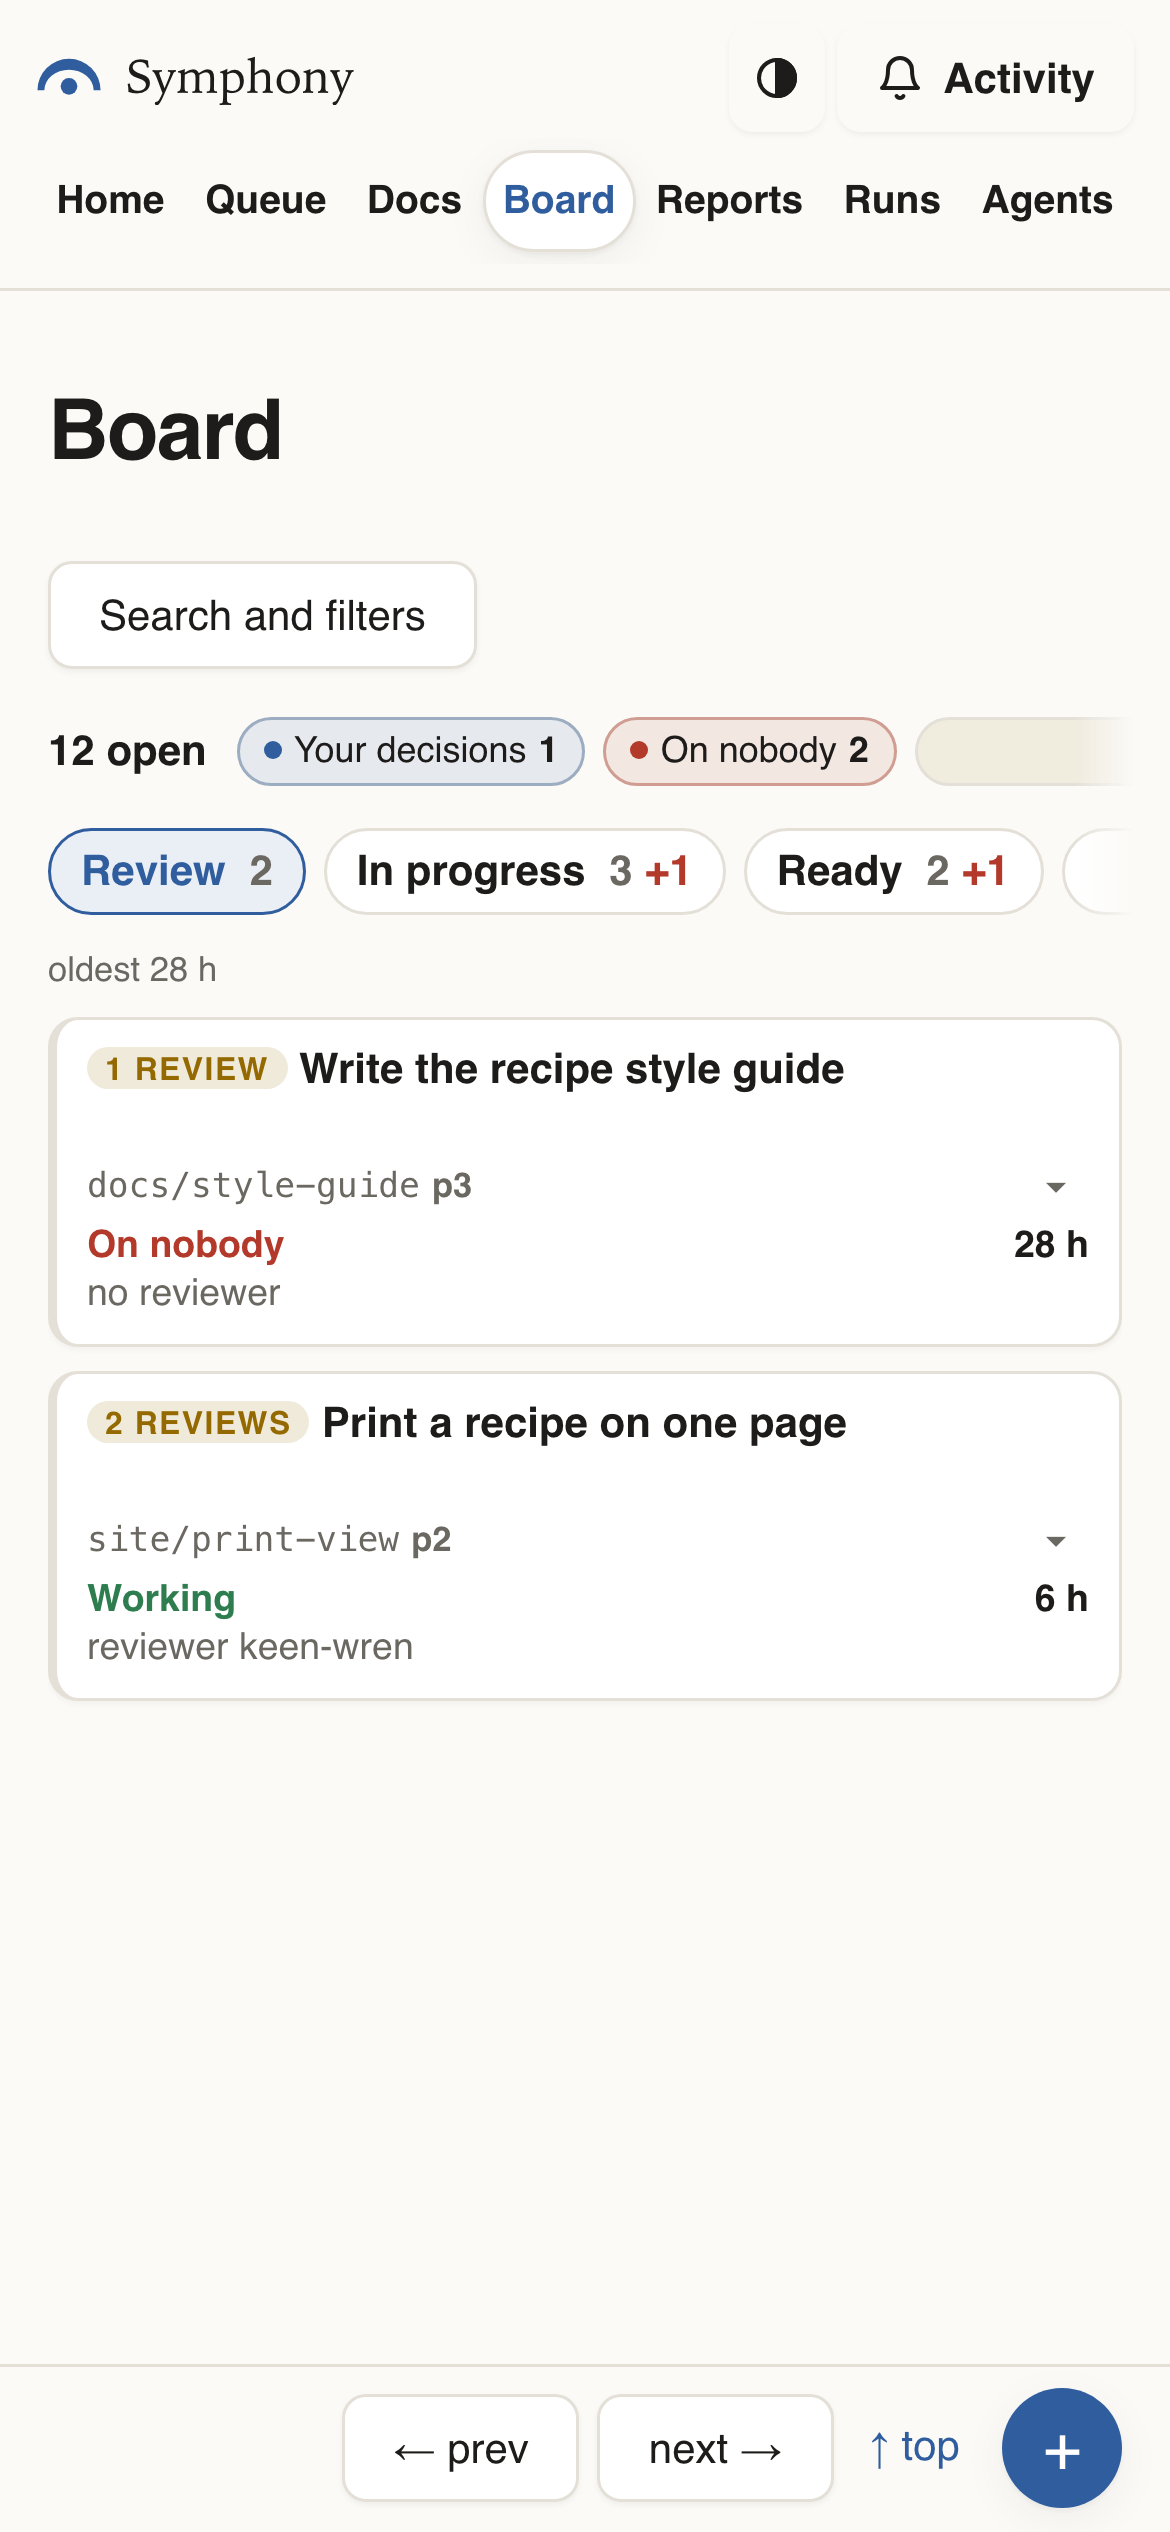
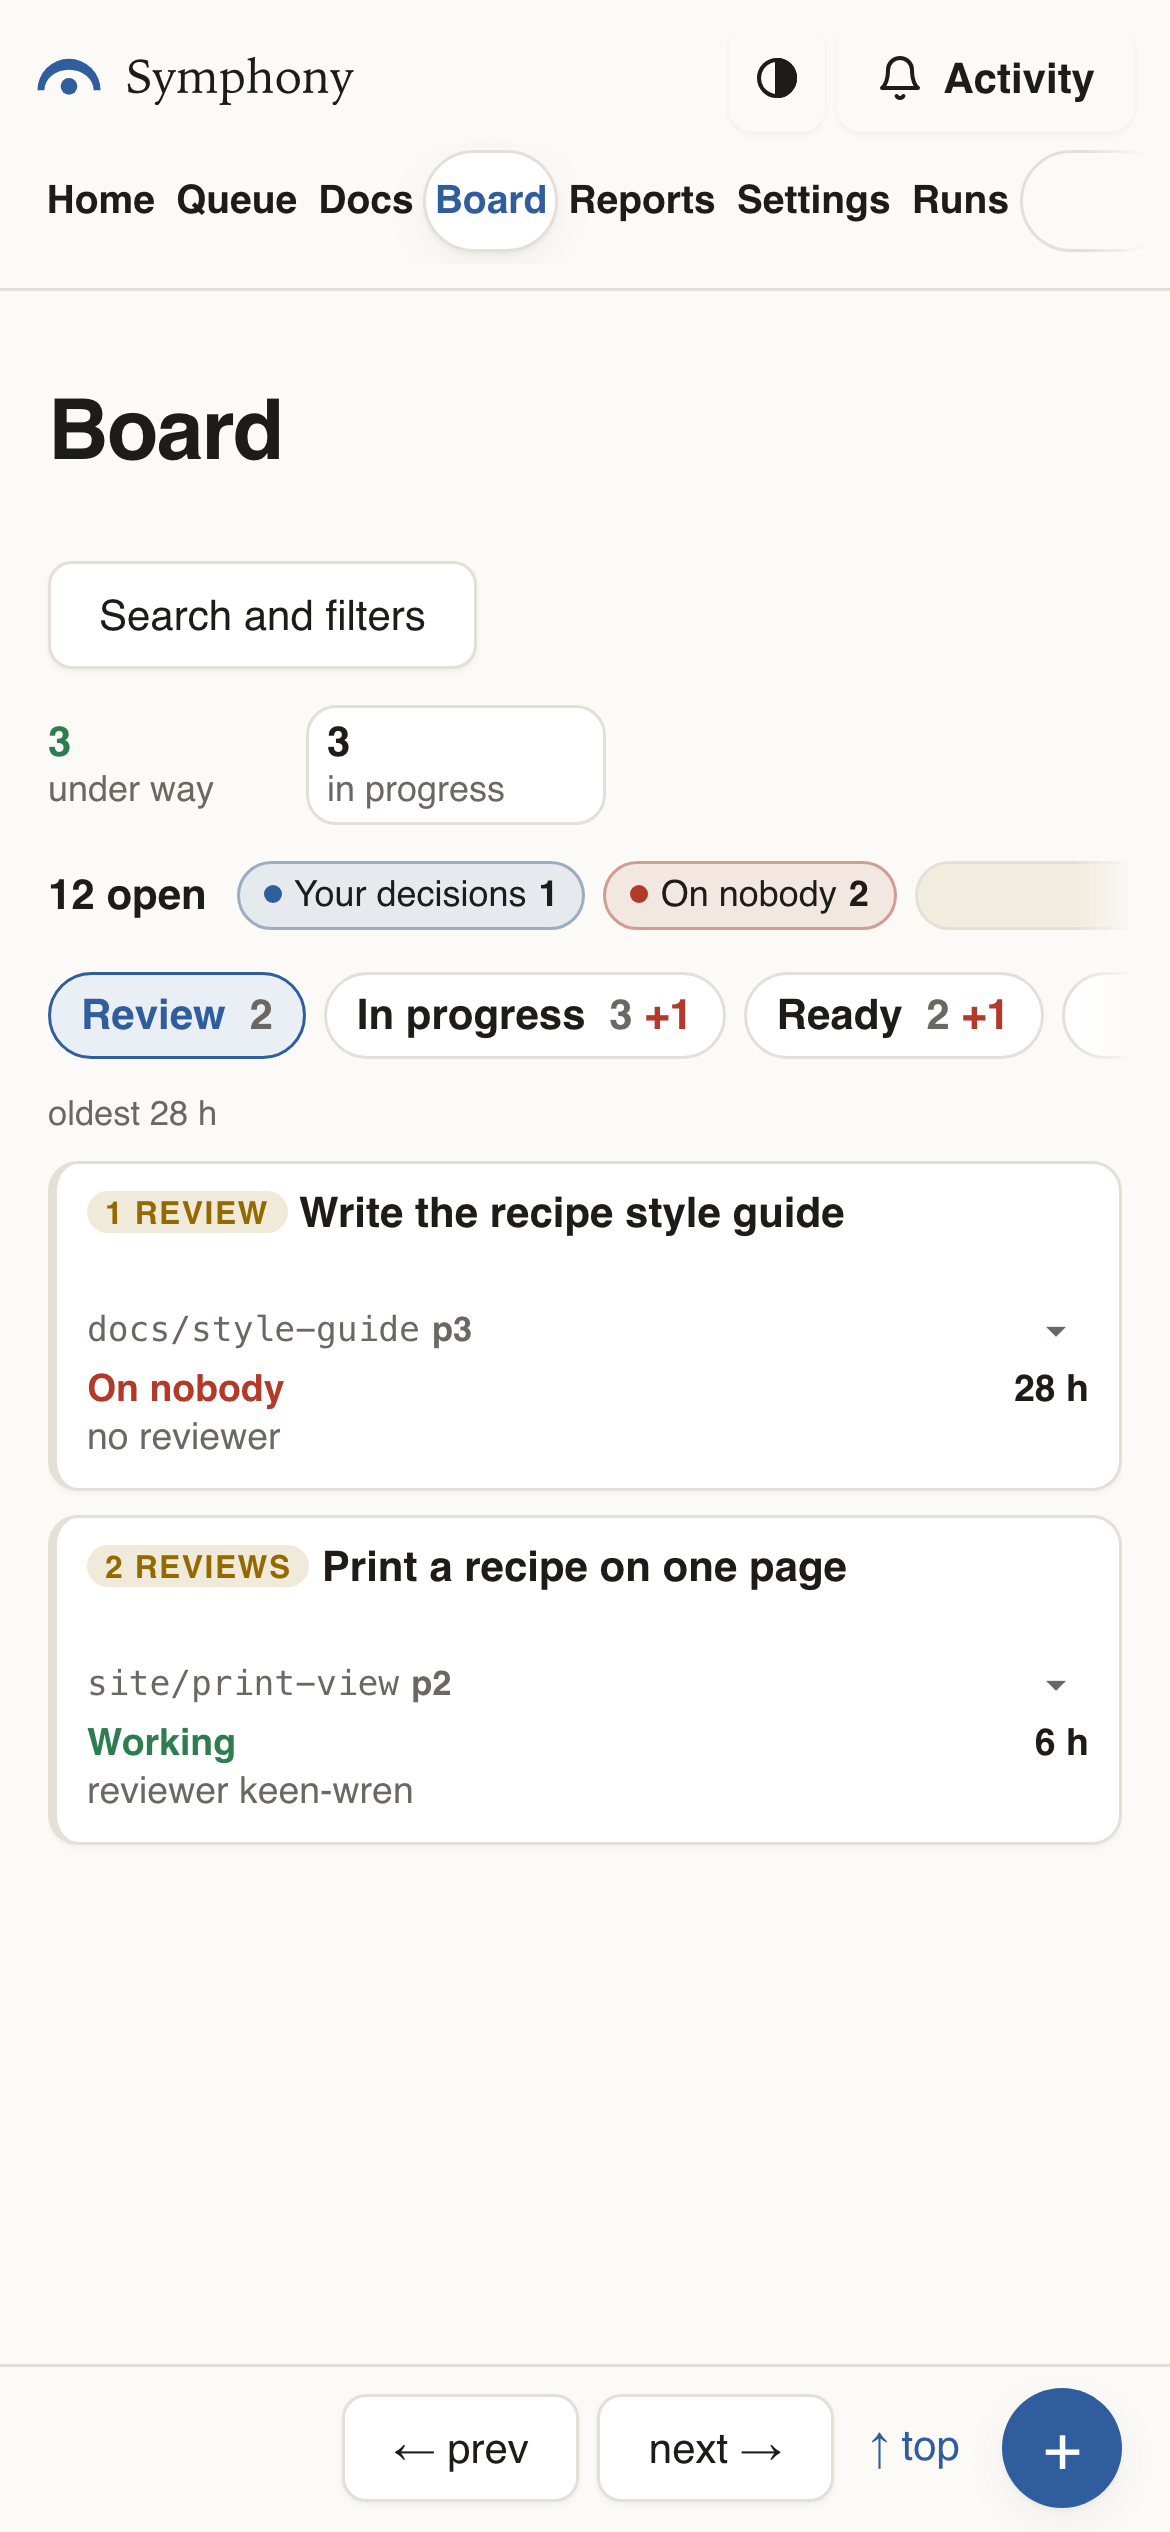
docs/board-spec-phone-row
Squashed from 269c57056491da468792b27a2f0fc3ff3cb6564a by pull request #83.

diff --git a/docs/product/BOARD.md b/docs/product/BOARD.md
@@ -112,8 +112,13 @@ decides which finished and cancelled tasks are shown and counted.
 An orchestrator is the agent that staffs the ready tasks and lands the approved ones. While at
 least one ready task waits to start and no orchestrator is live, a banner above the strip says
 **No live orchestrator.**, who holds the role and in what health, and how many of the ready tasks
-wait to start. It is amber while a holder has only gone quiet, red otherwise (no holder, one
-gone, or one whose health is not known), and absent while one is live or nothing waits to start.
+wait to start: *1 of the 3 ready tasks wait to start*. It is amber while a holder has only gone
+quiet, red otherwise (no holder, one gone, or one whose health is not known), and absent while one
+is live or nothing waits to start.
+
+The ready tasks it counts are the whole board's. A wait chosen in the strip or a search counts
+only its own tasks, so under one the banner says the total it last read without one: its words,
+and the strip under it, stay still when a chip is pressed or words are typed.
 
 ## States
 
@@ -135,10 +140,30 @@ gone, or one whose health is not known), and absent while one is live or nothing
 One stage at a time. A row of tabs under the strip names the stages, **Review** first, then
 **In progress**, **Ready**, **Done**, **Design**, **Concept** and **Backlog**, each with its count
 and, after a **+**, how many more are blocked there; **Build** and **Test** join the row while any
-machine reports to the board, with work going on or none. The stage chosen is kept on this device, for this project. The strip and the
-tabs each scroll sideways, and a choice that does not fit whole is drawn as an empty shape rather
-than cut. There is no **Backlog** button and no **Back to stages**: the backlog is a tab, and the
-cancelled tasks open from **Done** as on a wide screen.
+machine reports to the board, with work going on or none. The stage chosen is kept on this
+device, for this project. The strip and the tabs each scroll sideways, and a choice that does not
+fit whole is drawn as an empty shape rather than cut. There is no **Backlog** button and no
+**Back to stages**: the backlog is a tab, and the cancelled tasks open from **Done** as on a wide
+screen.
+
+### The work under way
+
+Above the strip, a row of four cells says how much work is under way, whichever tab is chosen.
+
+| Cell | Counts |
+| --- | --- |
+| **under way** | the three after it together |
+| **in progress** | the tasks in **in progress** that are not blocked, as the **In progress** tab counts them |
+| **building** | the tasks in **build**, as the **Build** tab counts them |
+| **testing** | the tasks in **test**, as the **Test** tab counts them |
+
+A press on one of the last three opens its tab. **in progress** is not the strip's **Working**,
+which counts the tasks an agent is at work on, in any stage. **building** and **testing** are
+there while a machine reports to the board, as their tabs are, and the row keeps their room
+either way, so a count that changes or a machine's first report moves nothing. Under a wait
+chosen in the strip the row stands empty in its place, and the banner keeps its words
+([above](#no-live-orchestrator)), so the strip stays where the chip was pressed. A project that
+runs a workflow of its own has no such row.
 
 ## Edges
 

diff --git a/RULES.md b/RULES.md
@@ -111,12 +111,12 @@ routed around: never build or run another binary to get past it.
 
 ### `workflow/no-slowing-for-usage-limits`
 
-No agent slows down for a usage, credit or rate limit of the account its agents run on, seen or
-forecast: it never holds back, defers or narrows filing, staffing, reviews, follow-ups or the
-number of tasks in progress for one. Work goes on at the pace the board and `[limits]` set until
-a limit actually stops a session, which is resumed or its task handed on as any stopped session
-is (`STALE` and `LOST` in [the tasks skill](.agents/skills/tasks/SKILL.md#events)). Switching to
-usage credits to go on is the owner's choice, never an agent's.
+No agent slows down for a usage, credit or rate limit of the account it runs on, seen or forecast:
+it never holds back, defers or narrows filing, staffing, reviews, follow-ups or the number of
+tasks in progress for one. Work goes on at the pace the board and `[limits]` set until a limit
+actually stops a session, which is resumed or its task handed on as any stopped session is
+(`STALE` and `LOST` in [the tasks skill](.agents/skills/tasks/SKILL.md#events)). Switching to usage
+credits to go on is the owner's choice, never an agent's.
 
 ### `workflow/claude-first-agents`
 
